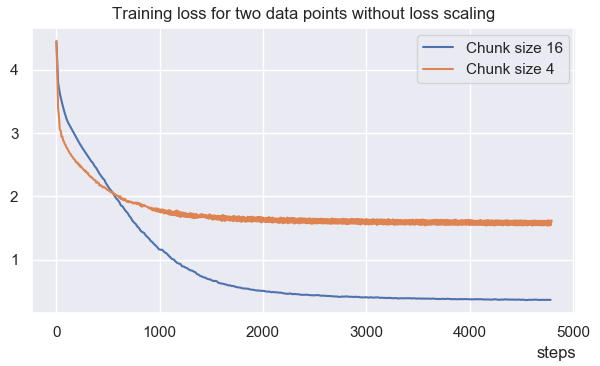
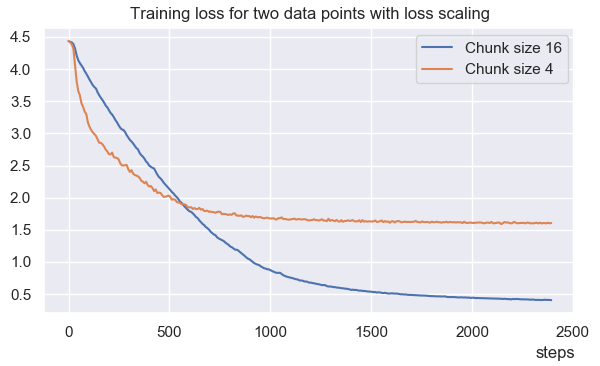
Added new figure

diff --git a/src/generate_log.py b/src/generate_log.py
@@ -17,4 +17,4 @@ file_names = ["logs/bach_38_4/run-small_bach_chunk16-tag-loss.csv",
 labels = ["Chunk size 16", "Chunk size 4"]
 title = "Training loss for two data points without loss scaling"
 scales = [4, 1]
-plot_multiple_diagrams(file_names, labels, title, "img/small_bach_38_4.png", scales=scales)
+plot_multiple_diagrams(file_names, labels, title, "img/small_bach_38_4_without_scaling.png", scales=scales)
